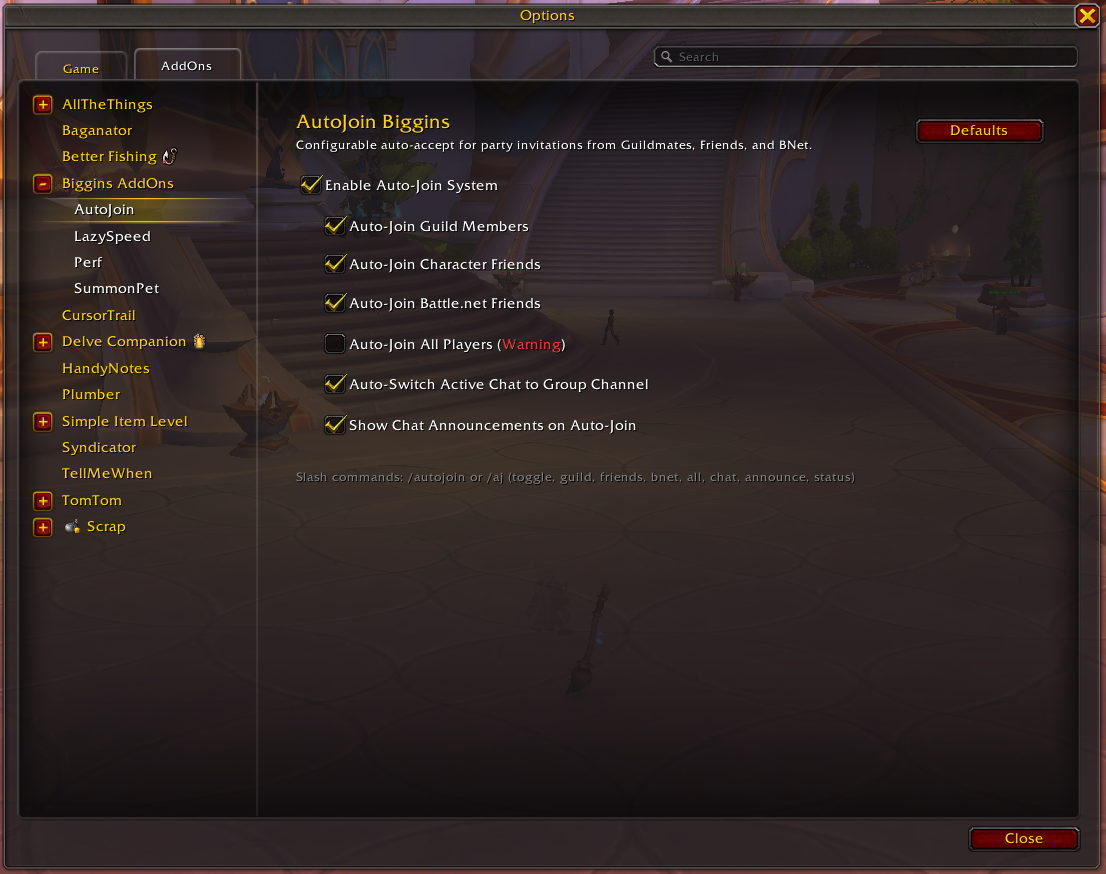
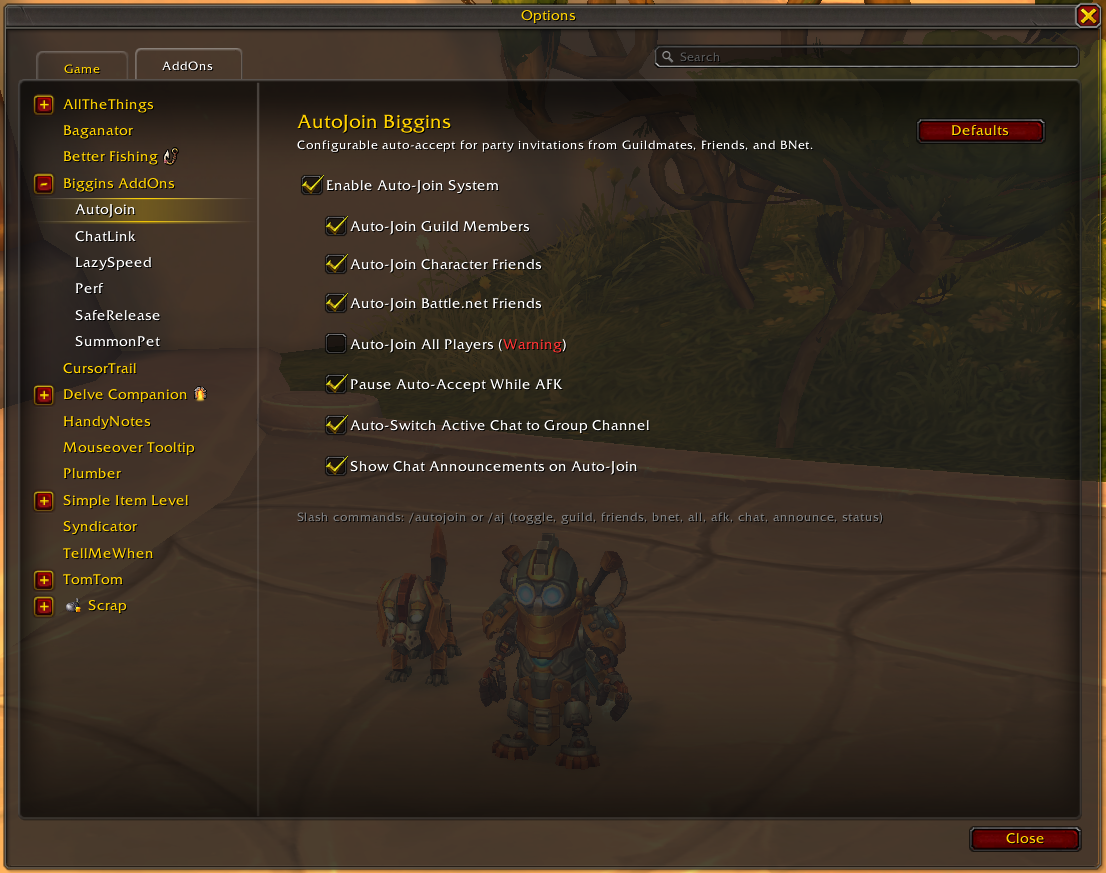
autojoin-biggins 1.3.0 - pause while afk

diff --git a/autojoin-biggins/README.md b/autojoin-biggins/README.md
@@ -12,6 +12,7 @@
   - **Character Friends:** Auto-joins party invites from your in-game friends list.
   - **Battle.net Friends:** Auto-joins party invites from active Battle.net contacts playing WoW.
   - **All Players (Optional):** Opt-in toggle to accept direct invitations from any player (disabled by default for safety).
+- **Pause Auto-Accept While AFK:** Automatically pauses auto-acceptance whenever your character is flagged as Away (AFK). Leaves the standard Blizzard invitation popup on screen so you can review and accept when you return.
 - **Auto-Switch Active Chat to Group:** Automatically primes your chat input (`chatType`) to **Party** (`/p`), **Raid** (`/ra`), or **Instance** (`/i`) the moment you join a group so you never forget to type in the right channel.
 - **Clean Popup Suppression:** Automatically dismisses the standard `PARTY_INVITE` and `PARTY_INVITE_XREALM` confirmation popups on accepted invitations, preventing screen clutter.
 - **Untouched Non-Whitelisted Invites:** If a direct invite arrives from someone outside your active filters, the normal Blizzard invitation popup remains completely intact for manual review.

diff --git a/autojoin-biggins/CHANGELOG.md b/autojoin-biggins/CHANGELOG.md
@@ -4,6 +4,17 @@ All notable changes to **AutoJoin Biggins** will be documented in this file.
 
 ---
 
+## [1.3.0] - 2026-11-01
+
+### Added
+- **AFK Protection (Pause While AFK):** Automatically pauses party invitation auto-acceptance whenever your character is flagged as Away (AFK).
+- **Blizzard Dialog Preservation:** When invitations arrive while AFK, the standard Blizzard invitation popup is preserved on screen so you can manually accept or decline when you return to your desk.
+- **AFK Chat Notification:** Prints a quiet notification in chat when an invitation is held due to AFK status (if announcements are enabled).
+- **New Settings Toggle:** Added [x] Pause Auto-Accept While AFK in the options menu (enabled by default).
+- **New Slash Command:** Added /aj afk toggle command.
+
+---
+
 ## [1.2.0] - 2026-10-23
 
 ### Added

diff --git a/autojoin-biggins/description.md b/autojoin-biggins/description.md
@@ -9,6 +9,7 @@
 
 ### Features
 - **Auto-Switch Chat Channel:** Automatically sets your active chat channel to **Party** (`/p`), **Raid** (`/ra`), or **Instance** (`/i`) as soon as you join a group.
+- **Pause While AFK:** Automatically pauses auto-acceptance while your character is flagged as Away (AFK), preserving the invitation popup for manual handling.
 - **Instant & Event-Driven:** Hooks into `PARTY_INVITE_REQUEST` with zero background polling and zero frame stutter.
 - **Popup Suppression:** Automatically dismisses the standard party invitation confirmation dialogs on accepted invites.
 - **Safe Fallback:** If an invite arrives from someone outside your active filters, the normal Blizzard dialog remains untouched for manual handling.
